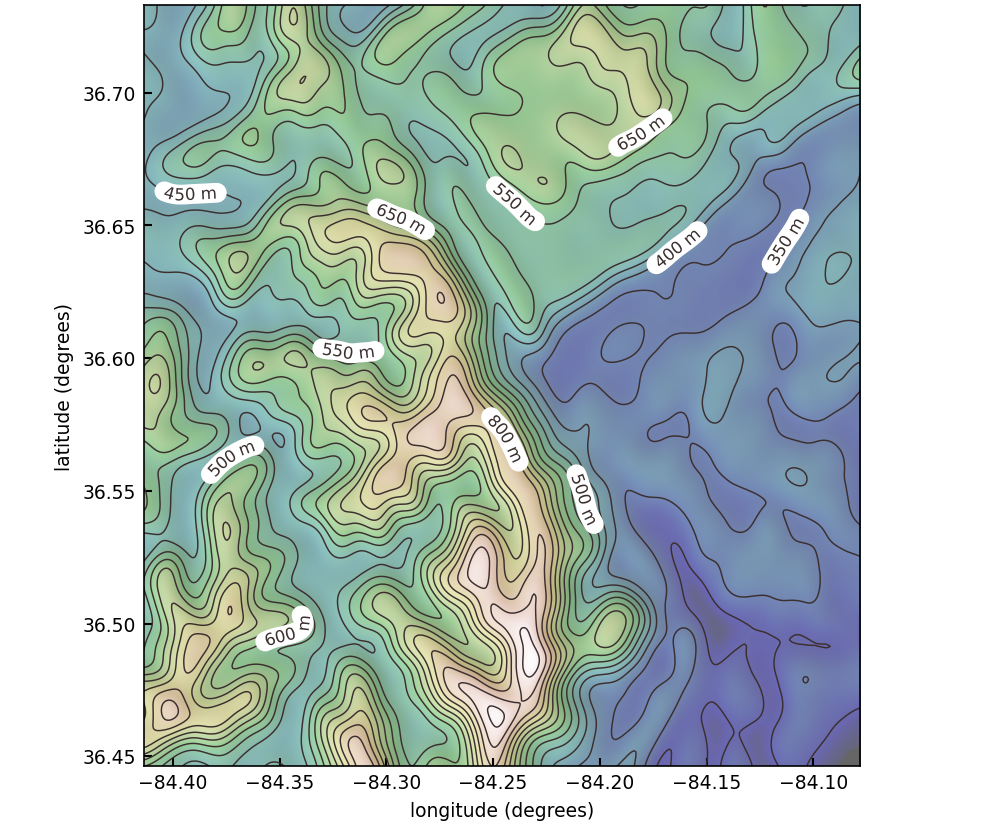
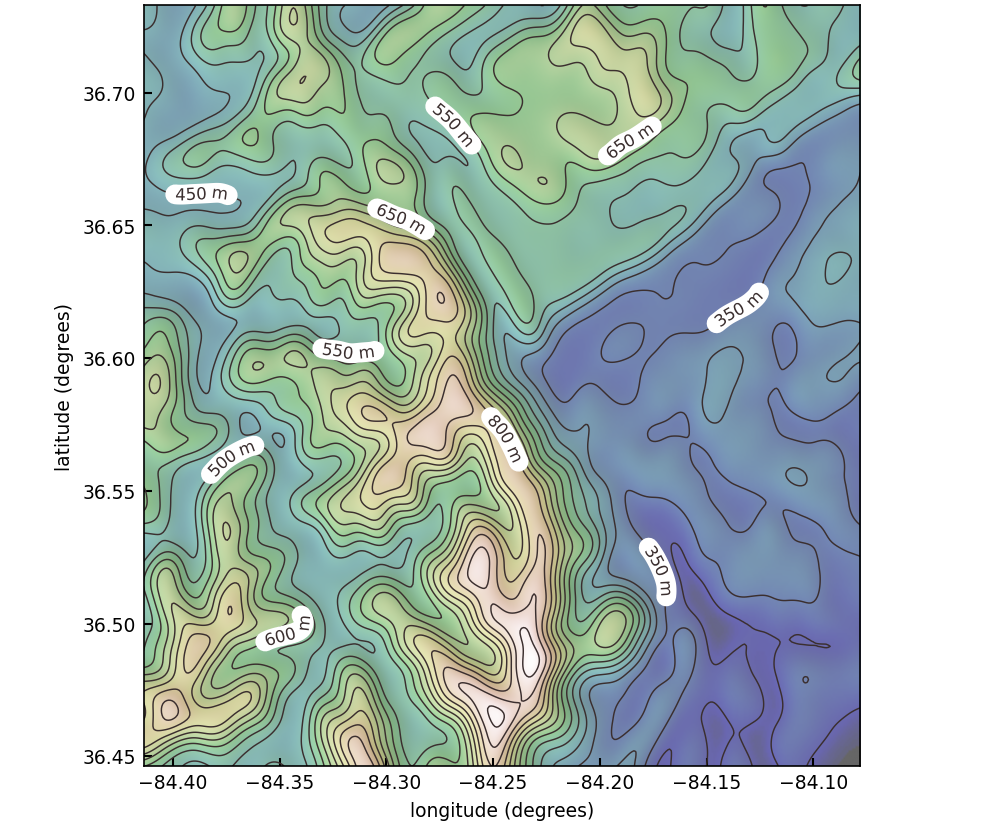
Keep the map labels on contours with room for them and update the Gallery counts

diff --git a/examples/example_20_topographic_map.py b/examples/example_20_topographic_map.py
@@ -1,12 +1,13 @@
-"""A topographic map of real terrain, with every contour labeled upright.
+"""A topographic map of real terrain, with its contour labels upright.
 
 Elevation from matplotlib's ``jacksboro_fault_dem.npz`` sample data, a digital
 elevation model near the Jacksboro fault in Tennessee, smoothed by a Gaussian
 about six cells wide so the contours are smooth enough to label, and shaded by
 a light from the northwest. Contours run every 50 m. ``ax.contour`` sets the
-direction of each contour path, and most run from right to left on screen, so
+direction of each contour path, and many run from right to left on screen, so
 every label is passed ``upright=True``. Each label sits where its contour has
-the most room, and a label too close to one already placed is left out.
+the most room, a contour too crowded or too curved for a label has none, and a
+label too close to one already placed is left out.
 """
 from __future__ import annotations
 
@@ -26,7 +27,11 @@ CONTOUR_INTERVAL_M = 50
 # loops around a summit or a pit, or fragments at the edge.
 MIN_POINTS = 250
 # Where along a contour a label may sit, as fractions of its length.
-CANDIDATE_POS = np.linspace(0.25, 0.75, 11)
+CANDIDATE_POS = np.linspace(0.15, 0.85, 29)
+# The least distance, in degrees, from a label to the nearest other contour: a
+# little more than half the height of its casing, so the casing covers no
+# neighboring contour.
+MIN_ROOM = 0.0025
 # The least distance, in degrees, between two labels.
 MIN_LABEL_SEPARATION = 0.045
 # A label is about this long, in degrees, and a contour that turns by more than
@@ -78,16 +83,16 @@ def _turn_degrees(path, pos):
 
 def _roomiest_pos(path, others):
     """The candidate ``pos`` at which ``path`` is farthest from every other
-    contour, among those where it is straight enough for a label, and that
-    distance. Where contours crowd, as on a steep slope, a label would cover
-    its neighbors. ``None`` where no candidate is straight enough."""
+    contour, among those where it is straight enough for a label and clear of
+    its neighbors, and that distance. Where contours crowd, as on a steep slope,
+    a label would cover them. ``None`` where no candidate qualifies."""
     best = (None, -1.0)
     for pos in CANDIDATE_POS:
         if _turn_degrees(path, pos) > MAX_TURN_DEGREES:
             continue
         point = _point_at(path, pos)
         room = float(np.min(np.hypot(*(others - point).T)))
-        if room > best[1]:
+        if room > best[1] and room >= MIN_ROOM:
             best = (float(pos), room)
     return best
 

diff --git a/tests/test_examples.py b/tests/test_examples.py
@@ -85,7 +85,7 @@ def test_contour_figures_label_every_contour_upright(name, tmp_path,
                                                      monkeypatch):
     # ``ax.contour`` sets the direction of each path, and the labels of these
     # figures follow the paths as they come, which run either way on screen
-    # (5 of the 11 map labels read upright without ``upright=True``).
+    # (4 of the 10 map labels read upright without ``upright=True``).
     module = _load_example(name)
     labels = []
     real = module.curved_text

diff --git a/examples/README.md b/examples/README.md
@@ -17,14 +17,15 @@ ground heights) near the Jacksboro fault in Tennessee, with contours every 50 m.
 A contour label is the classic label along a curve, and it needs the curve to
 be smooth. The script therefore smooths the terrain with a Gaussian filter six
 cells wide before it contours it. Each contour is a path whose direction
-`ax.contour` chooses, and 6 of the 11 labels here sit on paths that run from
+`ax.contour` chooses, and 6 of the 10 labels here sit on paths that run from
 right to left on screen, so the script passes `upright=True` and every label
 reads left to right. It places each label where its contour is straight enough
-for the text and farthest from the other contours, skips a label that would
-come too close to one already placed, and gives each label a `box=True` casing
-that clears the lines behind it.
+for the text and farthest from the other contours. It skips a contour that is
+too crowded or too curved anywhere for a label, and a label that would come too
+close to one already placed. Each label has a `box=True` casing that clears the
+lines behind it.
 
-![Shaded relief map of the terrain near the Jacksboro fault, with longitude from 84.41 to 84.08 degrees west and latitude from 36.45 to 36.73 degrees north. Contour lines every 50 meters wind across a ridge that runs from the upper left to the lower center. Eleven contours carry a label in a white casing: 350, 400, 450, 500, 500, 550, 550, 600, 650, 650, and 800 meters. Every label reads left to right.](https://raw.githubusercontent.com/thiebes/curved-text/main/examples/images/20_topographic_map.png)
+![Shaded relief map of the terrain near the Jacksboro fault, with longitude from 84.41 to 84.08 degrees west and latitude from 36.45 to 36.73 degrees north. Contour lines every 50 meters wind across a ridge that runs from the upper left to the lower center. Ten contours carry a label in a white casing: 350, 350, 450, 500, 550, 550, 600, 650, 650, and 800 meters. Every label reads left to right.](https://raw.githubusercontent.com/thiebes/curved-text/main/examples/images/20_topographic_map.png)
 
 [example_20_topographic_map.py](https://github.com/thiebes/curved-text/blob/main/examples/example_20_topographic_map.py)
 

diff --git a/CHANGELOG.md b/CHANGELOG.md
@@ -16,8 +16,8 @@ this project adheres to [Semantic Versioning](https://semver.org/spec/v2.0.0.htm
   positive `offset` on a turned label is toward the tops of the letters. It
   does not help a label that winds around, such as along a spiral, because it
   turns the whole label.
-- Two gallery figures: a topographic map of real terrain with every contour
-  labeled upright, which opens the gallery, and the streamlines of potential
+- Two gallery figures: a topographic map of real terrain with its contour
+  labels upright, which opens the gallery, and the streamlines of potential
   flow past a cylinder.
 
 ### Fixed
